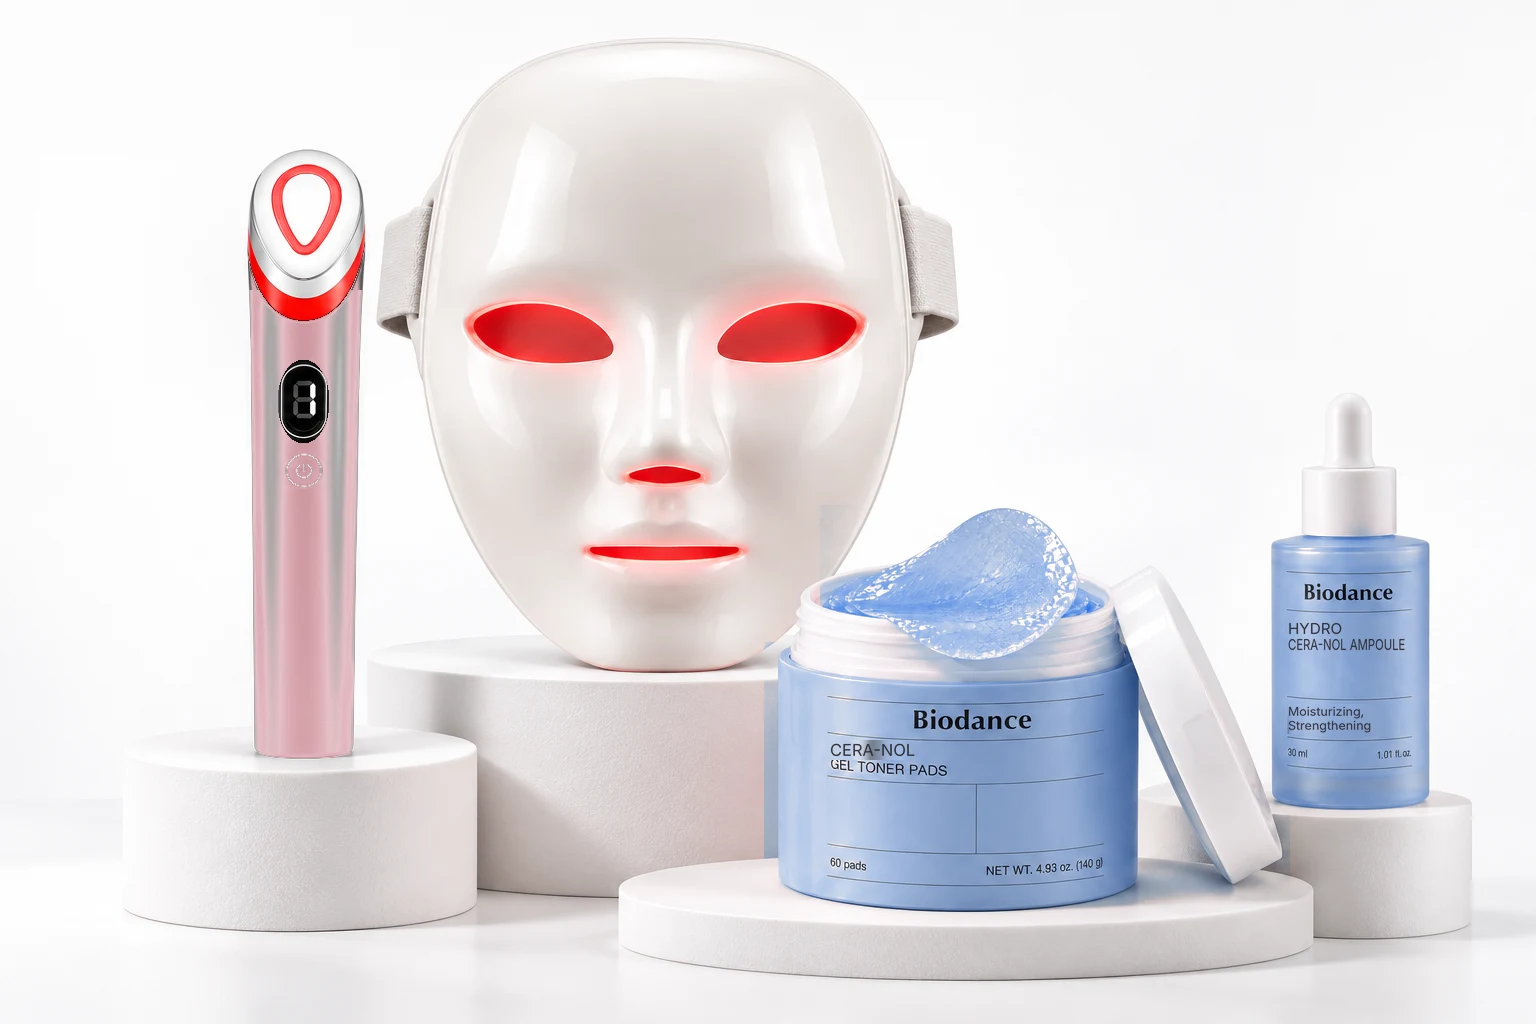
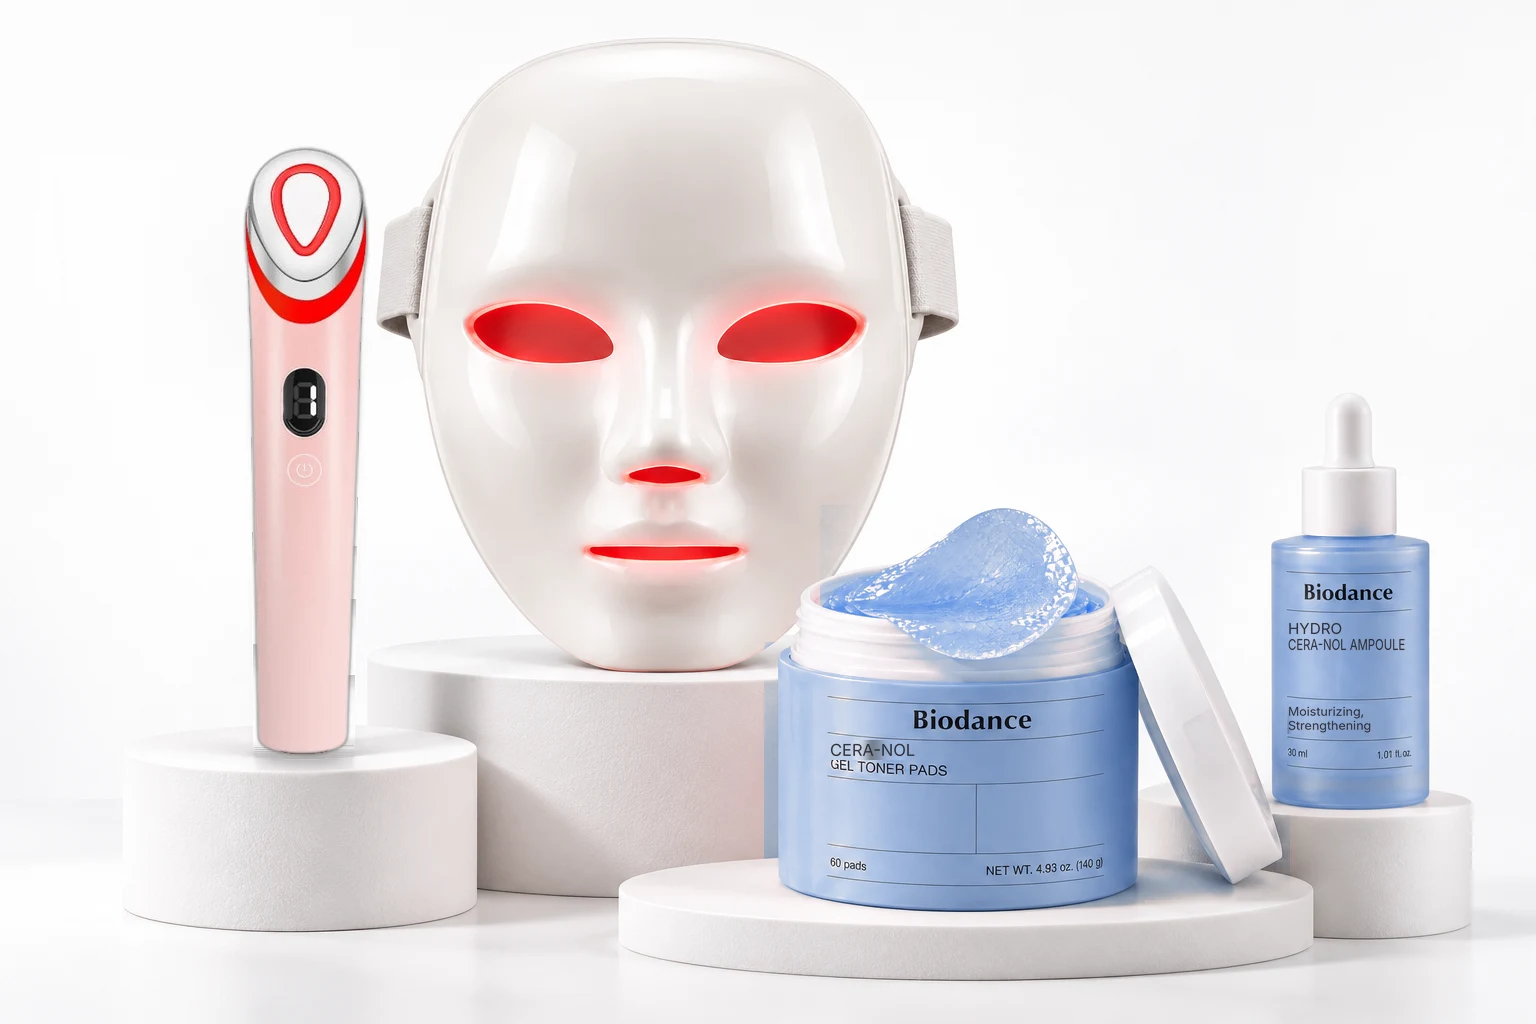
Pink wand from the real product photo; welcome pop-up uses the cover model with the mask
Claude-Session: https://claude.ai/code/session_01GPrWF7Hqmcvg1rsSVnA9s4

Changed region(s): [[0.1562, 0.1562, 0.25, 0.75]]

diff --git a/shopify-ivory-editorial/assets/ivory.css b/shopify-ivory-editorial/assets/ivory.css
@@ -1,5 +1,5 @@
 :root{--hb-pk:#332c26;--hb-pk-dk:#211c17;--hb-pk-soft:#f0eee7;--hb-pk-line:#dfdcd4;--hb-ink:#332c26;--hb-grey:#726a62;--hb-line:#e4e1da;--hb-fill:#f7f6f2;--hb-brown:#332c26;--hb-pill:#95825e;--hb-disp:Arial,Helvetica,sans-serif;--hb-sans:Arial,Helvetica,sans-serif;--sk-ink:#332c26;--sk-muted:#726a62;--sk-paper:#f7f6f2;--sk-cream:#f7f6f2;--sk-accent:#95825e;--sk-sans:Arial,Helvetica,sans-serif}
-body.hb-page{background:#f7f6f2;color:#332c26;font-family:Arial,Helvetica,sans-serif}.hb-page *{box-sizing:border-box}.hb-page [hidden]{display:none!important}.hb-head{background:#f7f6f2;color:#332c26;border-bottom:1px solid #e4e1da}.hb-head__in{min-height:82px}.hb-head .hb-ico,.hb-logo{color:#332c26}.hb-logo{font:700 clamp(20px,4.8vw,29px)/1 Arial,Helvetica,sans-serif;letter-spacing:.2em}.hb-strip{background:#ece9e1;color:#51493f;font-size:11px;letter-spacing:.08em;padding:10px 12px;margin:0}.hb-head__l>a,.hb-head__r>a{display:none}.hb-bubble{background:#332c26;color:#fff}.hb-menu{background:#f7f6f2}.hb-menu a{font-size:15px;font-weight:600;text-transform:none}.iv-productnav{display:flex;justify-content:center;gap:24px;padding-top:18px;padding-bottom:18px;overflow:auto;white-space:nowrap;border-bottom:1px solid #e4e1da}.iv-productnav a{font-size:12px;font-weight:600;text-decoration:none;color:#786f65;padding-bottom:7px;border-bottom:2px solid transparent}.iv-productnav a[aria-current]{color:#332c26;border-color:#332c26}.hb-top{padding-top:20px;gap:32px}.hb-title{font:700 clamp(29px,4vw,44px)/1.08 Arial,Helvetica,sans-serif;letter-spacing:-.025em;text-transform:none;margin-bottom:15px}.hb-new{font:700 10px/1.2 Arial,sans-serif;border:0;background:none;letter-spacing:.2em;color:#81705b;padding:0;border-radius:0;margin:0 0 13px}.hb-desc{font-size:15px;line-height:1.65;color:#71685f;max-width:48ch}.hb-price__now{font-size:28px}.hb-save{background:#95825e;border-radius:99px;font:700 11px/1 Arial,sans-serif;padding:7px 12px;letter-spacing:.05em}.hb-stock{font-size:12px;margin:16px 0 8px}.hb-stock i{background:#62bd75}.hb-buy:has(.iv-choices) [data-sk-form]{display:none}.hb-buy:has(.iv-choices)>.hb-price{display:none}.hb-buy:has(.iv-choices)>.hb-stock{border-top:1px solid #dedbd3;padding-top:18px}.hb-buy .hb-acc{margin-top:24px}.hb-acc summary{font:600 15px/1.4 Arial,sans-serif;text-transform:none;padding:20px 0}.hb-acc__b{font-size:14px;line-height:1.7}.hb-pill,.hb-card__btn{background:#332c26;color:#fff;border-radius:13px;font:700 16px/1.3 Arial,sans-serif;text-transform:none;letter-spacing:0}.hb-rows{border:0;background:none;font-size:12px}.hb-rows li{padding:8px 0}.hb-rows .hb-ic{color:#81705b}.hb-top>.sk-gal{min-width:0}.hb .sk-gal__track{display:flex;overflow-x:auto;scroll-snap-type:x mandatory;gap:0;margin:0;border-radius:4px}.hb .sk-gal__slide{flex:0 0 100%;aspect-ratio:1;background:#c5baab;scroll-snap-align:start}.hb .sk-gal__slide img{object-fit:contain}.hb .iv-product-image img{object-fit:cover;object-position:80% center}.hb .sk-gal__dots{display:flex;gap:8px;padding:14px 0}.hb .sk-gal__dots button[aria-current=true] i{background:#332c26}.iv-choices{border:0;background:none;margin:16px 0 24px;padding:0;scroll-margin-top:100px}.iv-choices>h2{font:700 12px/1.4 Arial,sans-serif;letter-spacing:.2em;text-transform:uppercase;color:#71685f;margin:0 0 20px}.iv-choice{position:relative;border:2px solid #e6e3dc;border-radius:17px;background:transparent;margin:0 0 15px;transition:border-color .2s,background .2s;overflow:visible}.iv-choice.is-selected{border-color:#332c26;background:#fff}.iv-choice__main{display:grid;grid-template-columns:24px minmax(0,1fr) auto;align-items:center;column-gap:13px;padding:20px 17px;cursor:pointer}.iv-choice__main input{appearance:none;width:23px;height:23px;border:2px solid #cbc6bc;border-radius:50%;margin:0;cursor:pointer;background:#fff}.iv-choice__main input:checked{border-color:#332c26;background:radial-gradient(circle,#332c26 0 6px,#fff 6.5px)}.iv-choice__main input:focus-visible{outline:2px solid #95825e;outline-offset:4px}.iv-choice__copy{display:flex;flex-direction:column;align-items:flex-start;gap:8px;min-width:0}.iv-choice__copy strong{font:700 15px/1.25 Arial,sans-serif;text-transform:uppercase;letter-spacing:-.015em}.iv-choice__what{font-size:12px;line-height:1.5;color:#756d65}.iv-saving{background:#95825e;color:#fff;border-radius:99px;padding:5px 10px;font-size:10px;font-weight:700;letter-spacing:.04em;text-transform:uppercase;white-space:nowrap}.iv-saving:empty{display:none}.iv-choice__price{text-align:right;align-self:center;display:flex;flex-direction:column;gap:4px}.iv-choice__price b{font-size:23px;line-height:1.15;letter-spacing:-.04em}.iv-choice__price s{font-size:15px;color:#756d65}.iv-choice__details{padding:16px 20px 18px;border-top:1px solid #e6e3dc;display:none}.iv-choice.is-selected .iv-choice__details{display:block}.iv-choice__details>label{display:block;font-size:12px;font-weight:600;margin-bottom:8px}.iv-choice select{width:100%;min-height:45px;border:1px solid #dedbd3;border-radius:9px;background:#f7f6f2;padding:8px 32px 8px 12px;color:#332c26;font:600 14px/1.3 Arial,sans-serif;margin-bottom:13px}.iv-included{display:grid;grid-template-columns:1fr;gap:4px;font-size:11px;line-height:1.5;color:#756d65}.iv-choice__shipping{display:none;border-top:1px solid #e6e3dc;padding:14px 20px;font-size:13px;font-weight:700}.iv-choice.is-selected .iv-choice__shipping{display:block}.iv-choice__flag{position:absolute;right:18px;top:-12px;background:#332c26;color:#fff;border-radius:8px 8px 0 0;padding:6px 12px;font-size:10px;font-weight:700}.iv-choice:has(.iv-choice__flag){margin-top:26px}.iv-choice [data-hb-kit-msg]{font-size:12px;margin:0;padding:0 20px}.iv-choice [data-hb-kit-msg]:not(:empty){padding-bottom:15px;color:#9b3025}.iv-add{display:flex;align-items:center;justify-content:center;flex-wrap:wrap;gap:12px;width:100%;min-height:66px;margin-top:24px;border:0;border-radius:15px;background:#332c26;color:#f9f8f4;font:700 19px/1.2 Arial,sans-serif;cursor:pointer;padding:14px 12px}.iv-add__prices{display:inline-flex;gap:8px;align-items:center;border:1px solid #8a8176;border-radius:99px;padding:7px 12px;font-size:18px}.iv-add__prices s{color:#bdb6ac;font-weight:400}.iv-add[disabled]{opacity:.55;cursor:not-allowed}.iv-checknote{text-align:center;font-size:10px;line-height:1.7;color:#82796e;margin:12px 0}.hb-story,.hb-sec,.hb-sec--blush{background:#f7f6f2;color:#332c26}.hb-story{border-top:1px solid #e4e1da;padding:50px 0}.hb-story h2,.hb-sec__h{font:600 clamp(27px,4vw,42px)/1.1 Arial,sans-serif;text-transform:none;letter-spacing:-.03em}.hb-story p{font-size:14px;line-height:1.7;color:#71685f}.hb-note{font-size:11px;color:#83786b}.hb-close{background:#eeeae2}.hb-close__h{font-family:Arial,sans-serif!important;text-transform:none!important}.hb-foot{background:#edeae3!important;color:#332c26!important}.hb-news{background:#e6e0d5!important;color:#332c26!important}.hb-news__h,.hb-news__h em{font-family:Arial,sans-serif!important;color:#332c26!important;font-style:normal!important;text-transform:none!important;line-height:1.1!important}.hb-news__h em{background:none!important}.hb-news__t{color:#71685f!important}.hb-news__row button{background:#332c26!important}.sc-welcome[open]{background:#f7f6f2!important}.sc-welcome .hb-news{background:none!important}.sc-welcome__photo img{object-position:80% center}.hb-sticky{background:#f7f6f2;border-color:#e4e1da}.hb-sticky__qty{display:none!important}.hb-sticky.has-qty .hb-sticky__add{display:flex!important}.hb-sticky .hb-pill{border-radius:12px}.sk-cart{background:#f7f6f2}.sk-cart__checkout,.sk-cart__go{background:#332c26!important}.hbc{--hbc-ac:#81705b}.hb-grid,.hb-policy,.hb-pagebox{background:#f7f6f2}.hb-page .hbp{background:#d1c6b7;--hbp-ac:#332c26}.hb-page .hbp__cap{display:none}.hb-page .hbp__h,.hb-page .hbp__k,.hb-page .hbp__o b{font-family:Arial,sans-serif;text-transform:none}.hb-page .hbp__ph{opacity:.15;filter:grayscale(1)}
+body.hb-page{background:#f7f6f2;color:#332c26;font-family:Arial,Helvetica,sans-serif}.hb-page *{box-sizing:border-box}.hb-page [hidden]{display:none!important}.hb-head{background:#f7f6f2;color:#332c26;border-bottom:1px solid #e4e1da}.hb-head__in{min-height:82px}.hb-head .hb-ico,.hb-logo{color:#332c26}.hb-logo{font:700 clamp(20px,4.8vw,29px)/1 Arial,Helvetica,sans-serif;letter-spacing:.2em}.hb-strip{background:#ece9e1;color:#51493f;font-size:11px;letter-spacing:.08em;padding:10px 12px;margin:0}.hb-head__l>a,.hb-head__r>a{display:none}.hb-bubble{background:#332c26;color:#fff}.hb-menu{background:#f7f6f2}.hb-menu a{font-size:15px;font-weight:600;text-transform:none}.iv-productnav{display:flex;justify-content:center;gap:24px;padding-top:18px;padding-bottom:18px;overflow:auto;white-space:nowrap;border-bottom:1px solid #e4e1da}.iv-productnav a{font-size:12px;font-weight:600;text-decoration:none;color:#786f65;padding-bottom:7px;border-bottom:2px solid transparent}.iv-productnav a[aria-current]{color:#332c26;border-color:#332c26}.hb-top{padding-top:20px;gap:32px}.hb-title{font:700 clamp(29px,4vw,44px)/1.08 Arial,Helvetica,sans-serif;letter-spacing:-.025em;text-transform:none;margin-bottom:15px}.hb-new{font:700 10px/1.2 Arial,sans-serif;border:0;background:none;letter-spacing:.2em;color:#81705b;padding:0;border-radius:0;margin:0 0 13px}.hb-desc{font-size:15px;line-height:1.65;color:#71685f;max-width:48ch}.hb-price__now{font-size:28px}.hb-save{background:#95825e;border-radius:99px;font:700 11px/1 Arial,sans-serif;padding:7px 12px;letter-spacing:.05em}.hb-stock{font-size:12px;margin:16px 0 8px}.hb-stock i{background:#62bd75}.hb-buy:has(.iv-choices) [data-sk-form]{display:none}.hb-buy:has(.iv-choices)>.hb-price{display:none}.hb-buy:has(.iv-choices)>.hb-stock{border-top:1px solid #dedbd3;padding-top:18px}.hb-buy .hb-acc{margin-top:24px}.hb-acc summary{font:600 15px/1.4 Arial,sans-serif;text-transform:none;padding:20px 0}.hb-acc__b{font-size:14px;line-height:1.7}.hb-pill,.hb-card__btn{background:#332c26;color:#fff;border-radius:13px;font:700 16px/1.3 Arial,sans-serif;text-transform:none;letter-spacing:0}.hb-rows{border:0;background:none;font-size:12px}.hb-rows li{padding:8px 0}.hb-rows .hb-ic{color:#81705b}.hb-top>.sk-gal{min-width:0}.hb .sk-gal__track{display:flex;overflow-x:auto;scroll-snap-type:x mandatory;gap:0;margin:0;border-radius:4px}.hb .sk-gal__slide{flex:0 0 100%;aspect-ratio:1;background:#c5baab;scroll-snap-align:start}.hb .sk-gal__slide img{object-fit:contain}.hb .iv-product-image img{object-fit:cover;object-position:80% center}.hb .sk-gal__dots{display:flex;gap:8px;padding:14px 0}.hb .sk-gal__dots button[aria-current=true] i{background:#332c26}.iv-choices{border:0;background:none;margin:16px 0 24px;padding:0;scroll-margin-top:100px}.iv-choices>h2{font:700 12px/1.4 Arial,sans-serif;letter-spacing:.2em;text-transform:uppercase;color:#71685f;margin:0 0 20px}.iv-choice{position:relative;border:2px solid #e6e3dc;border-radius:17px;background:transparent;margin:0 0 15px;transition:border-color .2s,background .2s;overflow:visible}.iv-choice.is-selected{border-color:#332c26;background:#fff}.iv-choice__main{display:grid;grid-template-columns:24px minmax(0,1fr) auto;align-items:center;column-gap:13px;padding:20px 17px;cursor:pointer}.iv-choice__main input{appearance:none;width:23px;height:23px;border:2px solid #cbc6bc;border-radius:50%;margin:0;cursor:pointer;background:#fff}.iv-choice__main input:checked{border-color:#332c26;background:radial-gradient(circle,#332c26 0 6px,#fff 6.5px)}.iv-choice__main input:focus-visible{outline:2px solid #95825e;outline-offset:4px}.iv-choice__copy{display:flex;flex-direction:column;align-items:flex-start;gap:8px;min-width:0}.iv-choice__copy strong{font:700 15px/1.25 Arial,sans-serif;text-transform:uppercase;letter-spacing:-.015em}.iv-choice__what{font-size:12px;line-height:1.5;color:#756d65}.iv-saving{background:#95825e;color:#fff;border-radius:99px;padding:5px 10px;font-size:10px;font-weight:700;letter-spacing:.04em;text-transform:uppercase;white-space:nowrap}.iv-saving:empty{display:none}.iv-choice__price{text-align:right;align-self:center;display:flex;flex-direction:column;gap:4px}.iv-choice__price b{font-size:23px;line-height:1.15;letter-spacing:-.04em}.iv-choice__price s{font-size:15px;color:#756d65}.iv-choice__details{padding:16px 20px 18px;border-top:1px solid #e6e3dc;display:none}.iv-choice.is-selected .iv-choice__details{display:block}.iv-choice__details>label{display:block;font-size:12px;font-weight:600;margin-bottom:8px}.iv-choice select{width:100%;min-height:45px;border:1px solid #dedbd3;border-radius:9px;background:#f7f6f2;padding:8px 32px 8px 12px;color:#332c26;font:600 14px/1.3 Arial,sans-serif;margin-bottom:13px}.iv-included{display:grid;grid-template-columns:1fr;gap:4px;font-size:11px;line-height:1.5;color:#756d65}.iv-choice__shipping{display:none;border-top:1px solid #e6e3dc;padding:14px 20px;font-size:13px;font-weight:700}.iv-choice.is-selected .iv-choice__shipping{display:block}.iv-choice__flag{position:absolute;right:18px;top:-12px;background:#332c26;color:#fff;border-radius:8px 8px 0 0;padding:6px 12px;font-size:10px;font-weight:700}.iv-choice:has(.iv-choice__flag){margin-top:26px}.iv-choice [data-hb-kit-msg]{font-size:12px;margin:0;padding:0 20px}.iv-choice [data-hb-kit-msg]:not(:empty){padding-bottom:15px;color:#9b3025}.iv-add{display:flex;align-items:center;justify-content:center;flex-wrap:wrap;gap:12px;width:100%;min-height:66px;margin-top:24px;border:0;border-radius:15px;background:#332c26;color:#f9f8f4;font:700 19px/1.2 Arial,sans-serif;cursor:pointer;padding:14px 12px}.iv-add__prices{display:inline-flex;gap:8px;align-items:center;border:1px solid #8a8176;border-radius:99px;padding:7px 12px;font-size:18px}.iv-add__prices s{color:#bdb6ac;font-weight:400}.iv-add[disabled]{opacity:.55;cursor:not-allowed}.iv-checknote{text-align:center;font-size:10px;line-height:1.7;color:#82796e;margin:12px 0}.hb-story,.hb-sec,.hb-sec--blush{background:#f7f6f2;color:#332c26}.hb-story{border-top:1px solid #e4e1da;padding:50px 0}.hb-story h2,.hb-sec__h{font:600 clamp(27px,4vw,42px)/1.1 Arial,sans-serif;text-transform:none;letter-spacing:-.03em}.hb-story p{font-size:14px;line-height:1.7;color:#71685f}.hb-note{font-size:11px;color:#83786b}.hb-close{background:#eeeae2}.hb-close__h{font-family:Arial,sans-serif!important;text-transform:none!important}.hb-foot{background:#edeae3!important;color:#332c26!important}.hb-news{background:#e6e0d5!important;color:#332c26!important}.hb-news__h,.hb-news__h em{font-family:Arial,sans-serif!important;color:#332c26!important;font-style:normal!important;text-transform:none!important;line-height:1.1!important}.hb-news__h em{background:none!important}.hb-news__t{color:#71685f!important}.hb-news__row button{background:#332c26!important}.sc-welcome[open]{background:#f7f6f2!important}.sc-welcome .hb-news{background:none!important}.sc-welcome__photo img{object-position:50% 28%}.hb-sticky{background:#f7f6f2;border-color:#e4e1da}.hb-sticky__qty{display:none!important}.hb-sticky.has-qty .hb-sticky__add{display:flex!important}.hb-sticky .hb-pill{border-radius:12px}.sk-cart{background:#f7f6f2}.sk-cart__checkout,.sk-cart__go{background:#332c26!important}.hbc{--hbc-ac:#81705b}.hb-grid,.hb-policy,.hb-pagebox{background:#f7f6f2}.hb-page .hbp{background:#d1c6b7;--hbp-ac:#332c26}.hb-page .hbp__cap{display:none}.hb-page .hbp__h,.hb-page .hbp__k,.hb-page .hbp__o b{font-family:Arial,sans-serif;text-transform:none}.hb-page .hbp__ph{opacity:.15;filter:grayscale(1)}
 @media(min-width:1000px){.hb-top{grid-template-columns:minmax(0,1.1fr) minmax(0,1fr);gap:64px;padding-top:32px}.hb-top>.sk-gal{position:sticky;top:25px}.iv-choice__copy strong{font-size:17px}.iv-choice__price b{font-size:27px}.iv-choice__main{padding:22px}.iv-choice__what{font-size:13px}.iv-productnav{padding-top:20px;padding-bottom:20px}}
 @media(max-width:749px){.hb-head__in{min-height:74px}.hb-top{gap:12px;padding-top:0}.hb-top .sk-gal{margin:0 -16px}.hb-title{font-size:30px}.hb-buy{padding-top:4px}.hb-desc{font-size:14px;margin-bottom:18px}.hb-strip{font-size:10px}.iv-choice__main{padding:20px 14px;gap:10px;grid-template-columns:22px minmax(0,1fr) auto}.iv-choice__copy strong{font-size:13px}.iv-choice__price b{font-size:22px}.iv-choice__what{font-size:11px}.iv-choice__details{padding:15px}.iv-productnav{gap:25px}.hb .sk-gal__slide{aspect-ratio:1.18}.hb-story__grid{gap:24px}.iv-add{font-size:18px}}
 @media(prefers-reduced-motion:reduce){html{scroll-behavior:auto!important}.iv-choice{transition:none}}

diff --git a/shopify-ivory-editorial/bundle-photos/tools/place.py b/shopify-ivory-editorial/bundle-photos/tools/place.py
@@ -1,0 +1,53 @@
+import numpy as np
+from PIL import Image, ImageFilter
+from fit import comp
+def place(scene_path, sx, sy, ox, oy, out=None):
+    S = Image.open(scene_path).convert('RGB')
+    pk = Image.open('img/sk-cut-booster-pink.png')
+    _, _, c = comp(pk, sx, sy)
+    # soften the cutout edge by half a pixel so it sits in the photo
+    a = c.split()[3].filter(ImageFilter.GaussianBlur(.6))
+    c.putalpha(a)
+    S.paste(c, (ox, oy), c)
+    return S
+
+def place_clean(scene_path, sx, sy, ox, oy):
+    S0 = np.asarray(Image.open(scene_path).convert('RGB')).astype(float)
+    pk = Image.open('img/sk-cut-booster-pink.png')
+    _, _, c = comp(pk, sx, sy)
+    al = np.zeros(S0.shape[:2]); ca = np.asarray(c)[..., 3] / 255.
+    al[oy:oy + ca.shape[0], ox:ox + ca.shape[1]] = ca
+    ys, xs = np.nonzero(al > .5); x0, x1, y0, y1 = xs.min() - 10, xs.max() + 10, ys.min() - 10, ys.max() + 10
+    L = S0.mean(2); sat = S0.max(2) - S0.min(2)
+    dark = (L < 200) & (sat < 60)
+    S = S0.copy()
+    # fill the old wand's leftover rim with the background from just outside it, row by row
+    for y in range(y0, y1):
+        row = dark[y] | (al[y] > .02)
+        for x in range(x0, x1):
+            if dark[y, x] and al[y, x] < .98:
+                for d in range(1, 25):
+                    for xx in (x + d, x - d):
+                        if x0 - 20 <= xx < x1 + 20 and not row[xx]:
+                            S[y, x] = S0[y, xx]; break
+                    else:
+                        continue
+                    break
+    # whatever is still near-black under the wand (the old base) takes the plinth color from below
+    yb = ys.max()
+    for y in range(yb - 6, yb + 14):
+        for x in range(x0, x1):
+            if al[y, x] < .5 and S[y, x].mean() < 150:
+                for d in range(1, 30):
+                    if S[y + d, x].mean() >= 170: S[y, x] = S[y + d, x]; break
+    # soft contact shadow where the base meets the plinth
+    from PIL import ImageDraw
+    xs_b = np.nonzero(al[yb - 4] > .5)[0]
+    sh = Image.new('L', (S.shape[1], S.shape[0]), 0); dr = ImageDraw.Draw(sh)
+    dr.ellipse((xs_b.min() - 10, yb - 6, xs_b.max() + 10, yb + 12), fill=255)
+    sh = np.asarray(sh.filter(ImageFilter.GaussianBlur(6))).astype(float) / 255 * .5
+    S = S * (1 - sh[..., None]) + np.array([150, 145, 145.]) * sh[..., None]
+    base = Image.fromarray(S.clip(0, 255).astype('uint8'))
+    a = c.split()[3].filter(ImageFilter.GaussianBlur(.6)); c.putalpha(a)
+    base.paste(c, (ox, oy), c)
+    return base

diff --git a/shopify-ivory-editorial/bundle-photos/tools/fit.py b/shopify-ivory-editorial/bundle-photos/tools/fit.py
@@ -1,0 +1,28 @@
+import numpy as np
+from PIL import Image
+def comp(cut, sx, sy):
+    w, h = cut.size
+    c = cut.resize((max(1, round(w * sx)), max(1, round(h * sy))), Image.LANCZOS)
+    a = np.asarray(c).astype(float); al = a[..., 3:4] / 255
+    return a[..., :3] * al + 255 * (1 - al), al[..., 0], c
+def fit(scene_path, xl, xr, yb):
+    S = np.asarray(Image.open(scene_path).convert('RGB')).astype(float)
+    blk = Image.open('img/sk-cut-booster-black.png')
+    best = None
+    s0 = (xr - xl + 1) / 207
+    for sx in np.linspace(s0 * .96, s0 * 1.04, 9):
+        for sy in np.linspace(s0 * .85, s0 * 1.1, 26):
+            rgb, al, _ = comp(blk, sx, sy)
+            ox0 = xl - 346 * sx; oy0 = yb - 1155 * sy
+            for dx in range(-3, 4):
+                for dy in range(-6, 7):
+                    ox, oy = int(round(ox0 + dx)), int(round(oy0 + dy))
+                    y1, x1 = oy + rgb.shape[0], ox + rgb.shape[1]
+                    reg = S[oy:y1, ox:x1]
+                    m = al > .5
+                    e = ((reg - rgb) ** 2).sum(2)[m].mean()
+                    if best is None or e < best[0]: best = (e, sx, sy, ox, oy)
+    return best
+if __name__ == '__main__':
+    print('complete', fit('kit/sc-white-complete-final.png', 248, 365, 757))
+    print('daily', fit('kit/sc-white-daily-final.png', 1073, 1196, 816))

diff --git a/shopify-ivory-editorial/README.md b/shopify-ivory-editorial/README.md
@@ -92,3 +92,13 @@ swaps between `sk-cut-collagen-duo` and `sk-cut-ceranol-duo`.
 "What's inside" names the picked items too (Booster Pro Wand · Pink, Cera-Nol Gel Toner Pads, Hydro
 Cera-Nol Ampoule) via `data-iv-names`. Checked on the preview: all 8 combinations swap photo and names,
 and pink wand + blue Cera-Nol adds exactly those variants to the cart ($232.80).
+
+## Pink wand redone with the real product photo; welcome offer photo (Oct 31)
+- The pink-wand ritual shots (`sc-white-daily-pinkwand`, `sc-white-complete-pink-pink`,
+  `sc-white-complete-pink-blue`) no longer recolor the black wand, which looked gray and rough. The real
+  pink product cutout (`sk-cut-booster-pink.png`, same shape as the black one) is fitted onto the black
+  wand's exact position and size (`tools/fit.py`), the old wand's rim is filled from the background, and
+  a soft contact shadow sits it on the plinth (`tools/place.py`). Same filenames, replaced in Files.
+- The 5% welcome pop-up (`sections/hb-footer.liquid`, now in this folder) shows the live store's cover
+  shot, `sc-mask-reference-hero-final.png`: the model with the lit LEZO mask over her face. Framed at
+  `50% 28%` so the mask and her face both stay in on phones.
